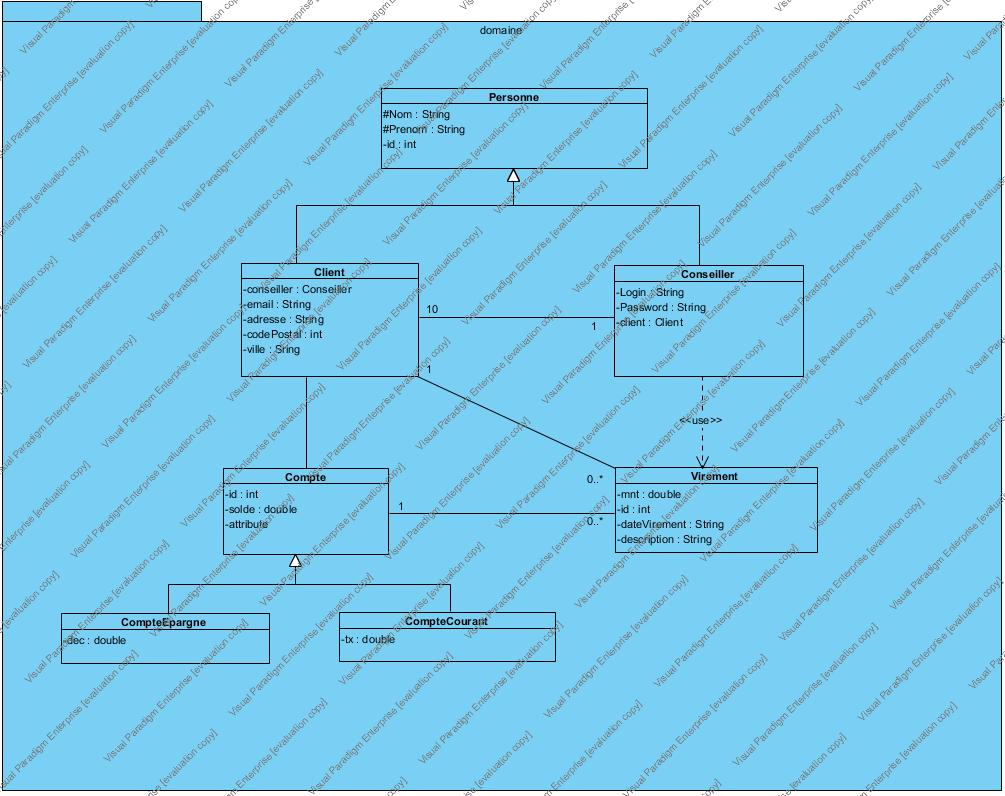
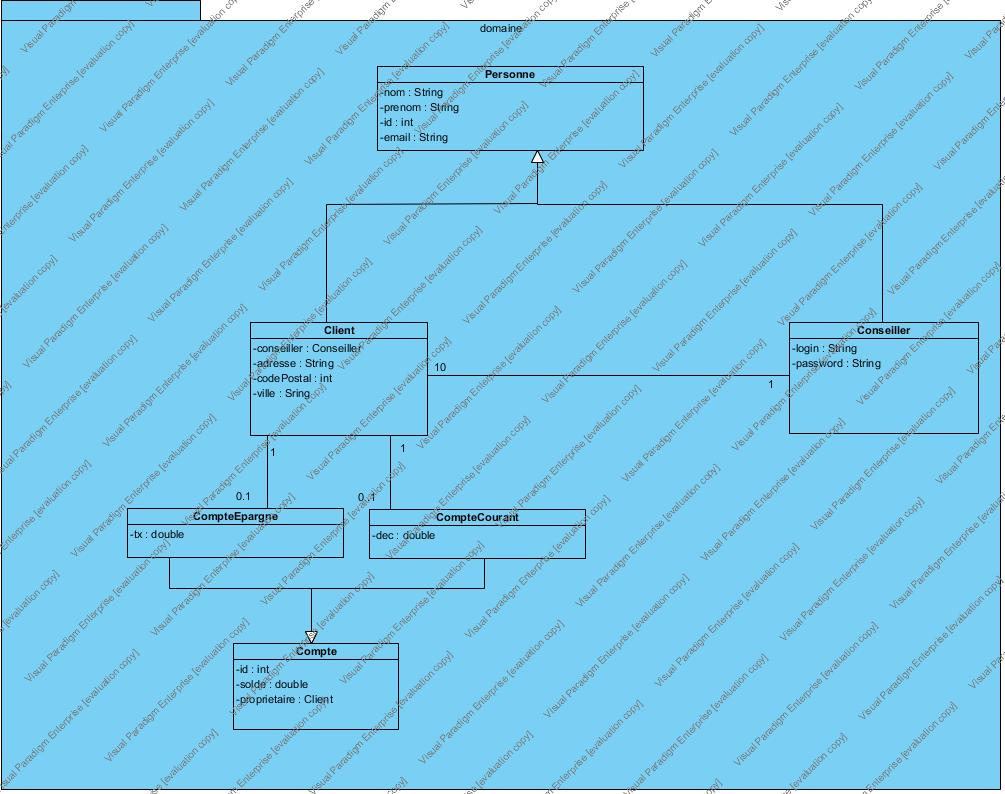
correction du diagramme et des classes du domaine

diff --git a/src/main/java/fr/avmk/proxyb/domain/Conseiller.java b/src/main/java/fr/avmk/proxyb/domain/Conseiller.java
@@ -1,11 +1,8 @@
-package fr.avmk.proxyb.business;
+package fr.avmk.proxyb.domain;
 
 public class Conseiller extends Personne {
 private String login; 
 private String password;
-private Client client;
-
-
 public Conseiller() {
 	super();
 	// TODO Auto-generated constructor stub
@@ -14,11 +11,10 @@ public Conseiller(int id, String name, String prenom, String email) {
 	super(id, name, prenom, email);
 	// TODO Auto-generated constructor stub
 }
-public Conseiller(String login, String password, Client client) {
+public Conseiller(String login, String password) {
 	super();
 	this.login = login;
 	this.password = password;
-	this.client = client;
 }
 public String getLogin() {
 	return login;
@@ -32,12 +28,7 @@ public String getPassword() {
 public void setPassword(String password) {
 	this.password = password;
 }
-public Client getClient() {
-	return client;
-}
-public void setClient(Client client) {
-	this.client = client;
-} 
+
 
 
 

diff --git a/src/main/java/fr/avmk/proxyb/domain/Compte.java b/src/main/java/fr/avmk/proxyb/domain/Compte.java
@@ -1,0 +1,38 @@
+package fr.avmk.proxyb.domain;
+public class Compte {
+private int id; 
+private double solde;
+private Client proprietaire;
+public Compte() {
+	super();
+	// TODO Auto-generated constructor stub
+}
+public Compte(int id, double solde, Client proprietaire) {
+	super();
+	this.id = id;
+	this.solde = solde;
+	this.proprietaire = proprietaire;
+}
+public int getId() {
+	return id;
+}
+public void setId(int id) {
+	this.id = id;
+}
+public double getSolde() {
+	return solde;
+}
+public void setSolde(double solde) {
+	this.solde = solde;
+}
+public Client getProprietaire() {
+	return proprietaire;
+}
+public void setProprietaire(Client proprietaire) {
+	this.proprietaire = proprietaire;
+} 
+
+
+}
+
+

diff --git a/src/main/java/fr/avmk/proxyb/domain/CompteCourant.java b/src/main/java/fr/avmk/proxyb/domain/CompteCourant.java
@@ -1,0 +1,30 @@
+package fr.avmk.proxyb.domain;
+
+public class CompteCourant extends Compte {
+	
+private double dec;
+
+public CompteCourant() {
+	super();
+	// TODO Auto-generated constructor stub
+}
+
+public CompteCourant(int id, double solde, Client proprietaire) {
+	super(id, solde, proprietaire);
+	// TODO Auto-generated constructor stub
+}
+
+public CompteCourant(double dec) {
+	super();
+	this.dec = dec;
+}
+
+public double getDec() {
+	return dec;
+}
+
+public void setDec(double dec) {
+	this.dec = dec;
+}
+
+}

diff --git a/src/main/java/fr/avmk/proxyb/domain/CompteEpargne.java b/src/main/java/fr/avmk/proxyb/domain/CompteEpargne.java
@@ -1,0 +1,29 @@
+package fr.avmk.proxyb.domain;
+
+public class CompteEpargne extends Compte {
+private  double tx;
+
+public CompteEpargne() {
+	super();
+	// TODO Auto-generated constructor stub
+}
+
+public CompteEpargne(int id, double solde, Client proprietaire) {
+	super(id, solde, proprietaire);
+	// TODO Auto-generated constructor stub
+}
+
+public CompteEpargne(double tx) {
+	super();
+	this.tx = tx;
+}
+
+public double getTx() {
+	return tx;
+}
+
+public void setTx(double tx) {
+	this.tx = tx;
+}
+
+}

diff --git a/src/main/java/fr/avmk/proxyb/domain/Personne.java b/src/main/java/fr/avmk/proxyb/domain/Personne.java
@@ -1,4 +1,4 @@
-package fr.avmk.proxyb.business;
+package fr.avmk.proxyb.domain;
 
 public class Personne {
 	private int id; 

diff --git a/src/main/java/fr/avmk/proxyb/domain/Client.java b/src/main/java/fr/avmk/proxyb/domain/Client.java
@@ -1,4 +1,4 @@
-package fr.avmk.proxyb.business;
+package fr.avmk.proxyb.domain;
 
 public class Client extends Personne {
 

diff --git a/src/main/java/fr/avmk/proxyb/domain/package-info.java b/src/main/java/fr/avmk/proxyb/domain/package-info.java
@@ -1,4 +1,5 @@
-/**
+/** 
+ * decrit les differentes classes du package business
  * @author Arnaud
  *
  */
